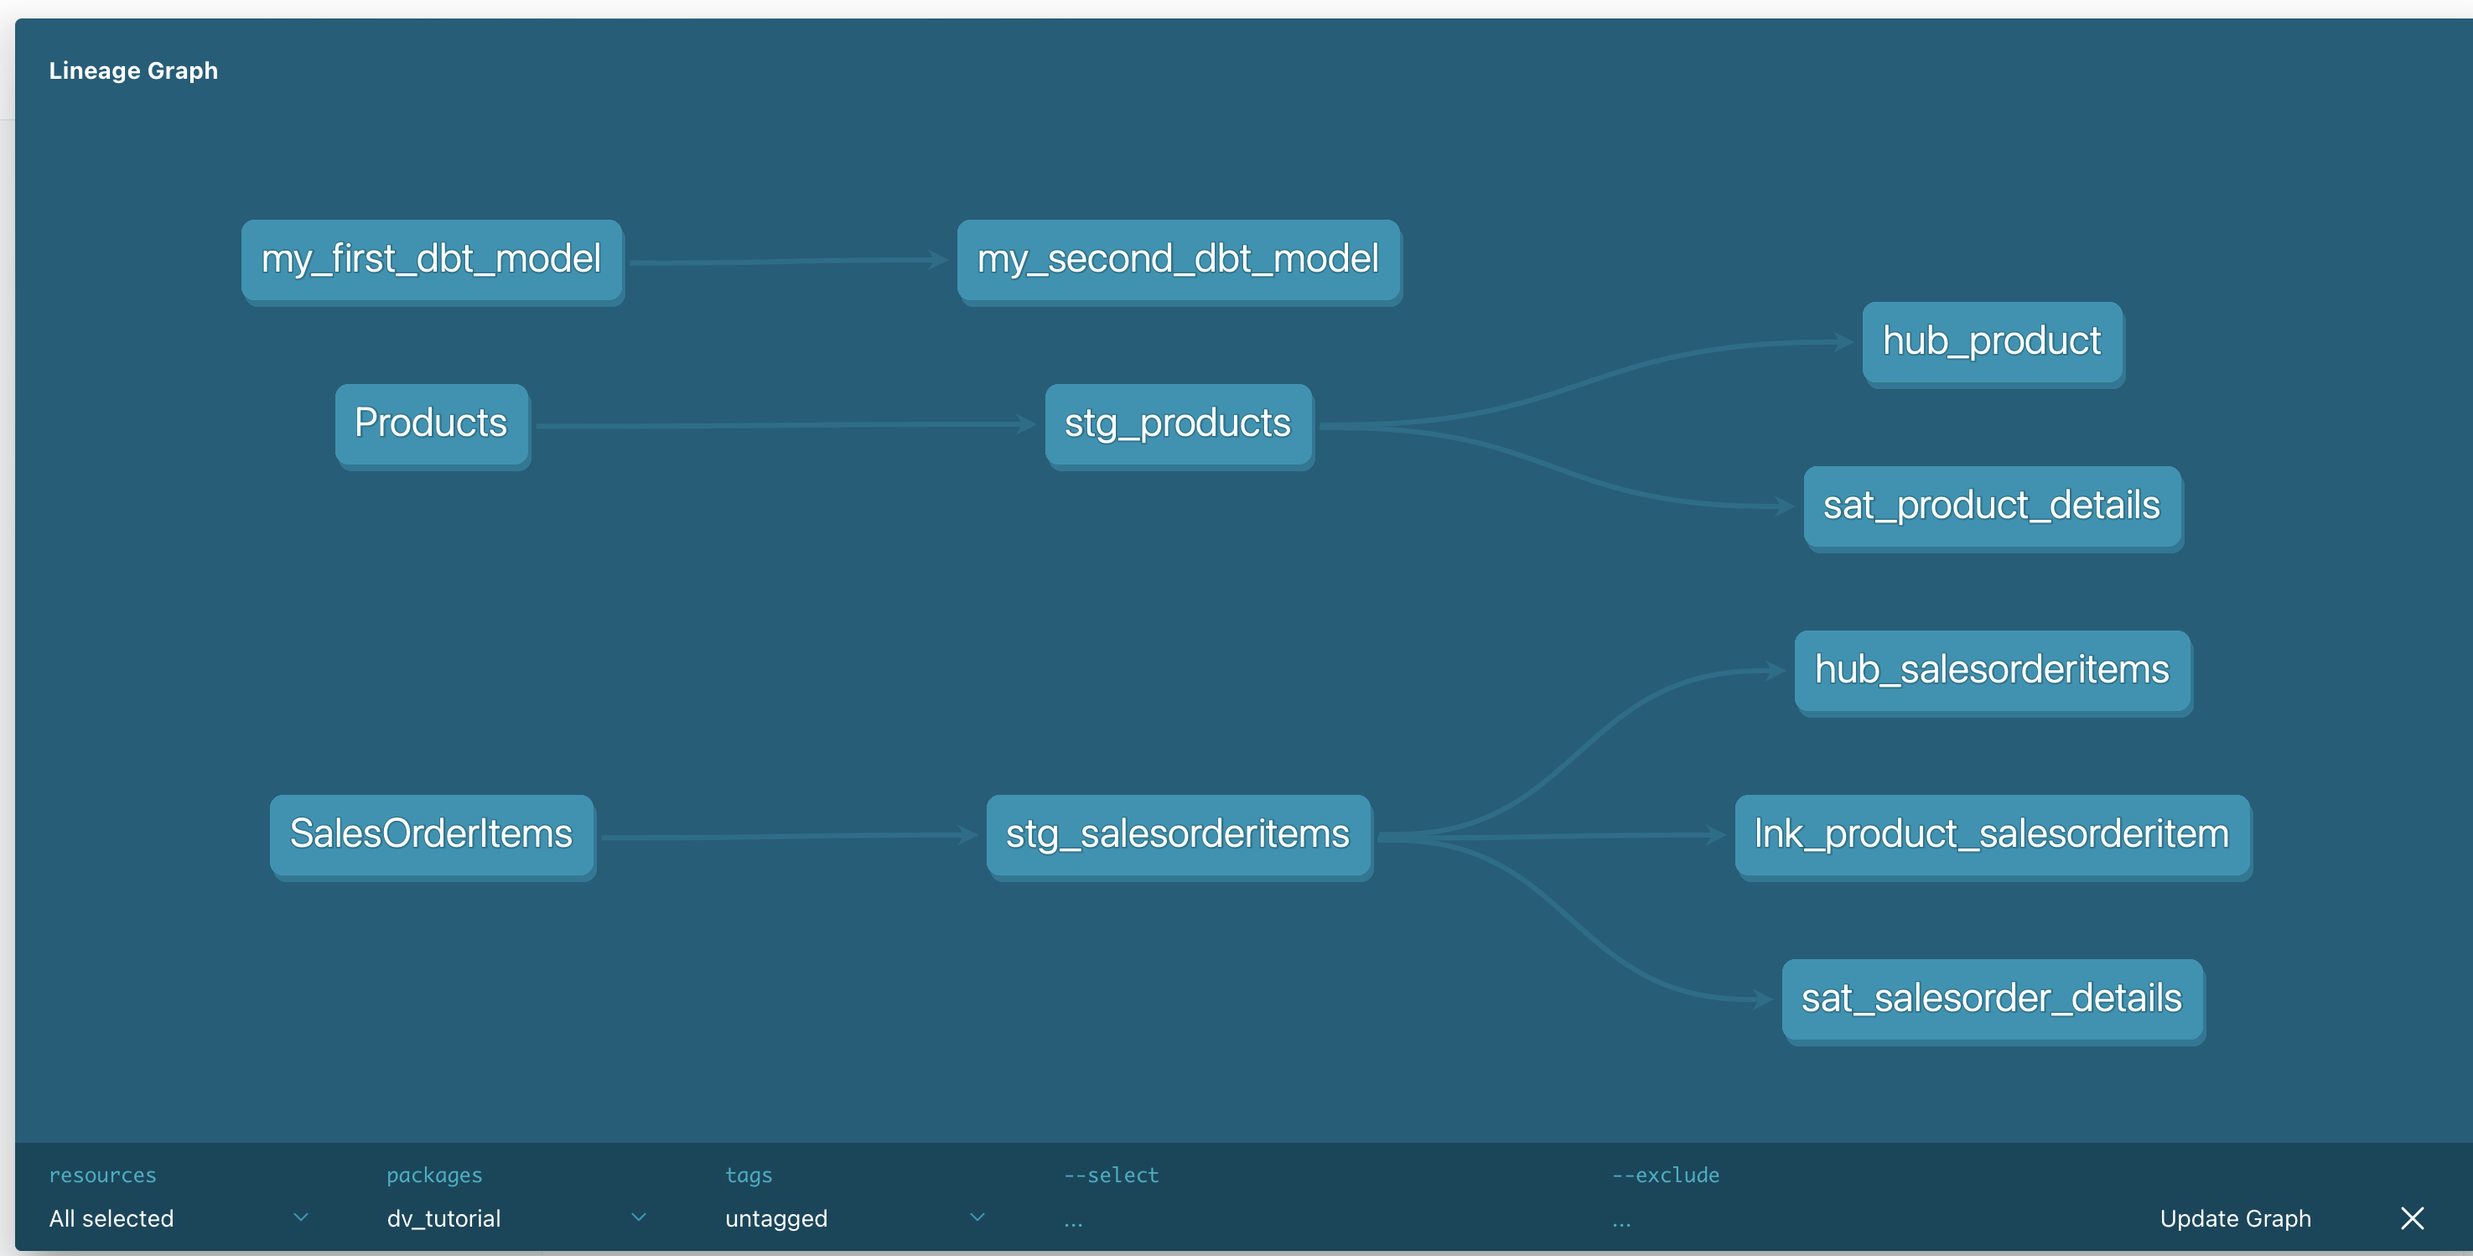
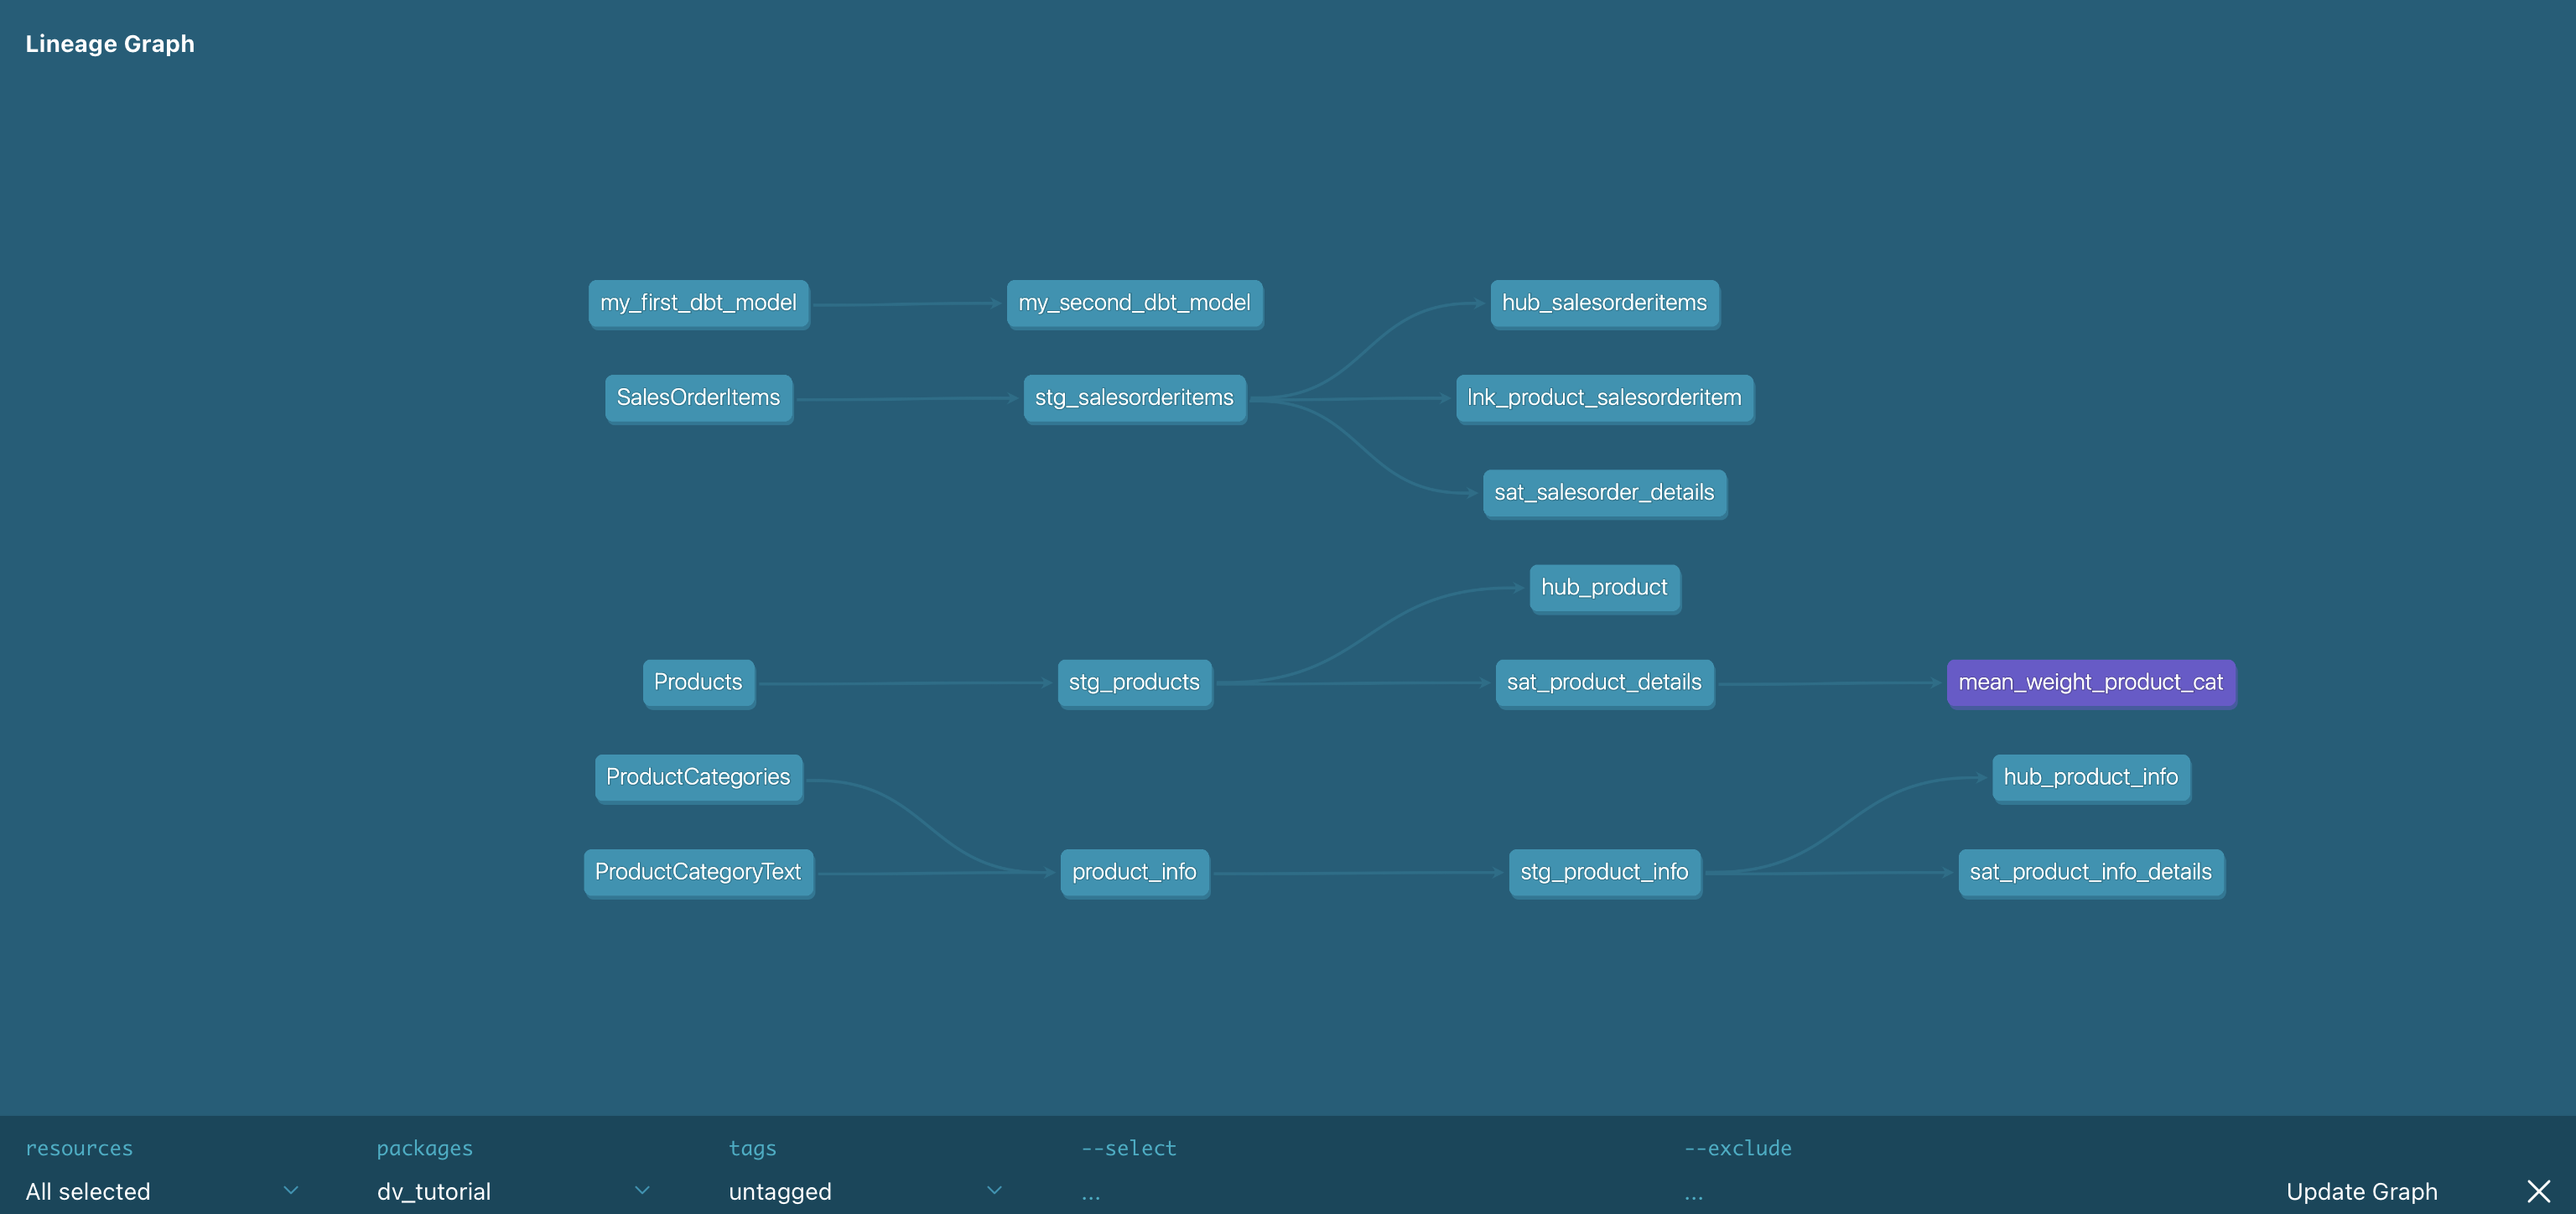
tm-0013: update docs and readme

diff --git a/README.md b/README.md
@@ -86,6 +86,17 @@ In the image below we can see that the raw tables are loaded into the database.
 
 `dbt` allows you to run separate stage scripts so you can trace step by step what you are doing. If you want to run everything at once: `dbt run`.
 
+## Dependencies: automate-dv
+
+Now you need to install the dependencies (`packages.yml`):
+
+```yaml
+packages:
+  - package: Datavault-UK/automate_dv
+    version: 0.10.1
+```
+
+
 ## Creating the staging tables
 
 ```bash
@@ -124,7 +135,15 @@ dbt run -s sat_salesorder_details  --full-refresh
 
 ![raw vault](docs/images/sat.png)
 
-# dbt auto doc generation
+### Aggregating
+
+As a test I tried to aggregate some simple data using a python model (`models/aggregate/mean_weight_product_cat.py`). In order for this to work I needed a third-party library `dbt-fal[postgres]`.
+
+>NOTE: Install first dbt-fal[postgres] and then dbt-postgres, otherwise you have some version issues.
+
+![agg](docs/images/python_model_agg.png)
+
+## dbt auto doc generation
 
 `dbt` can autogenerate docs.
 
